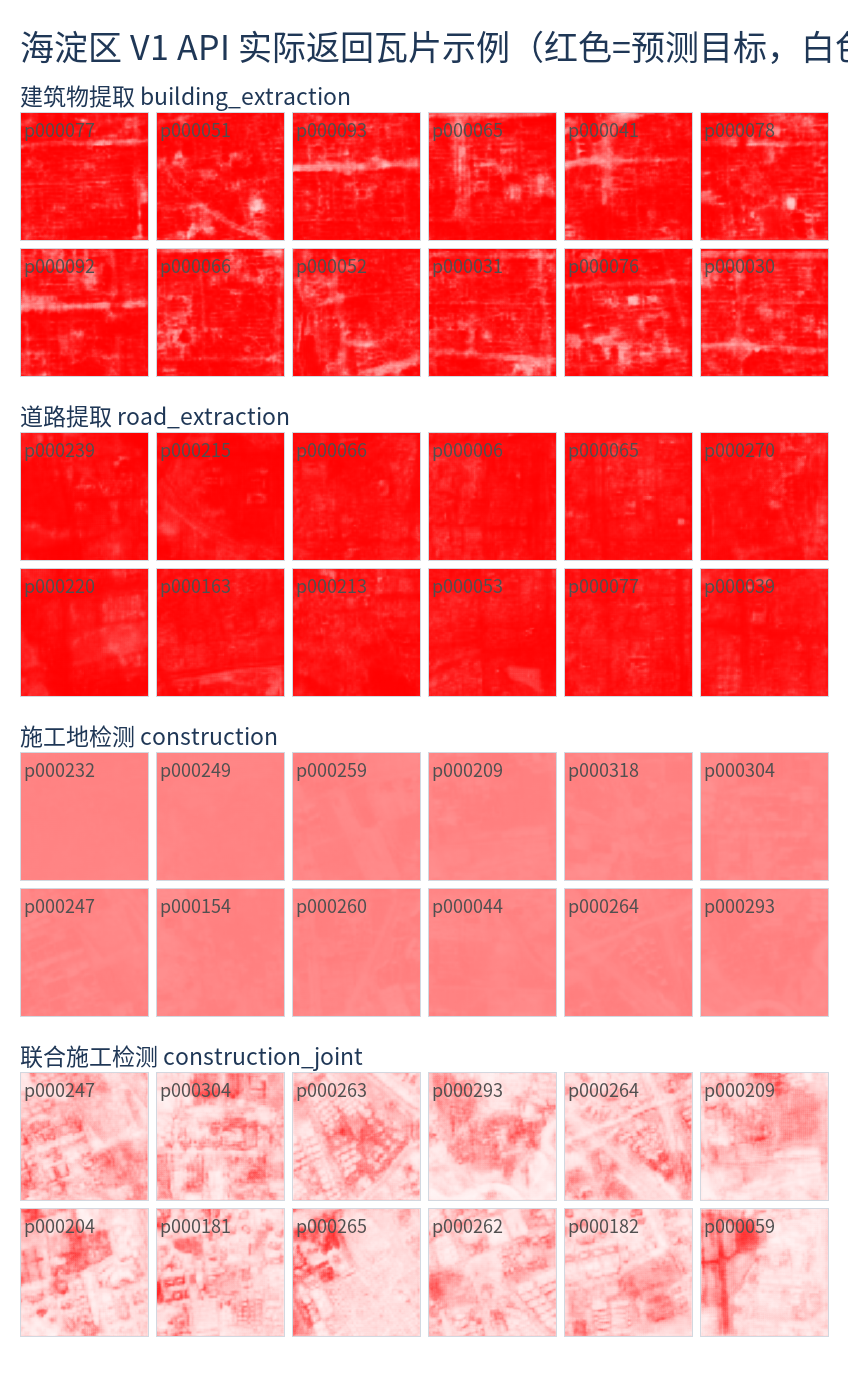
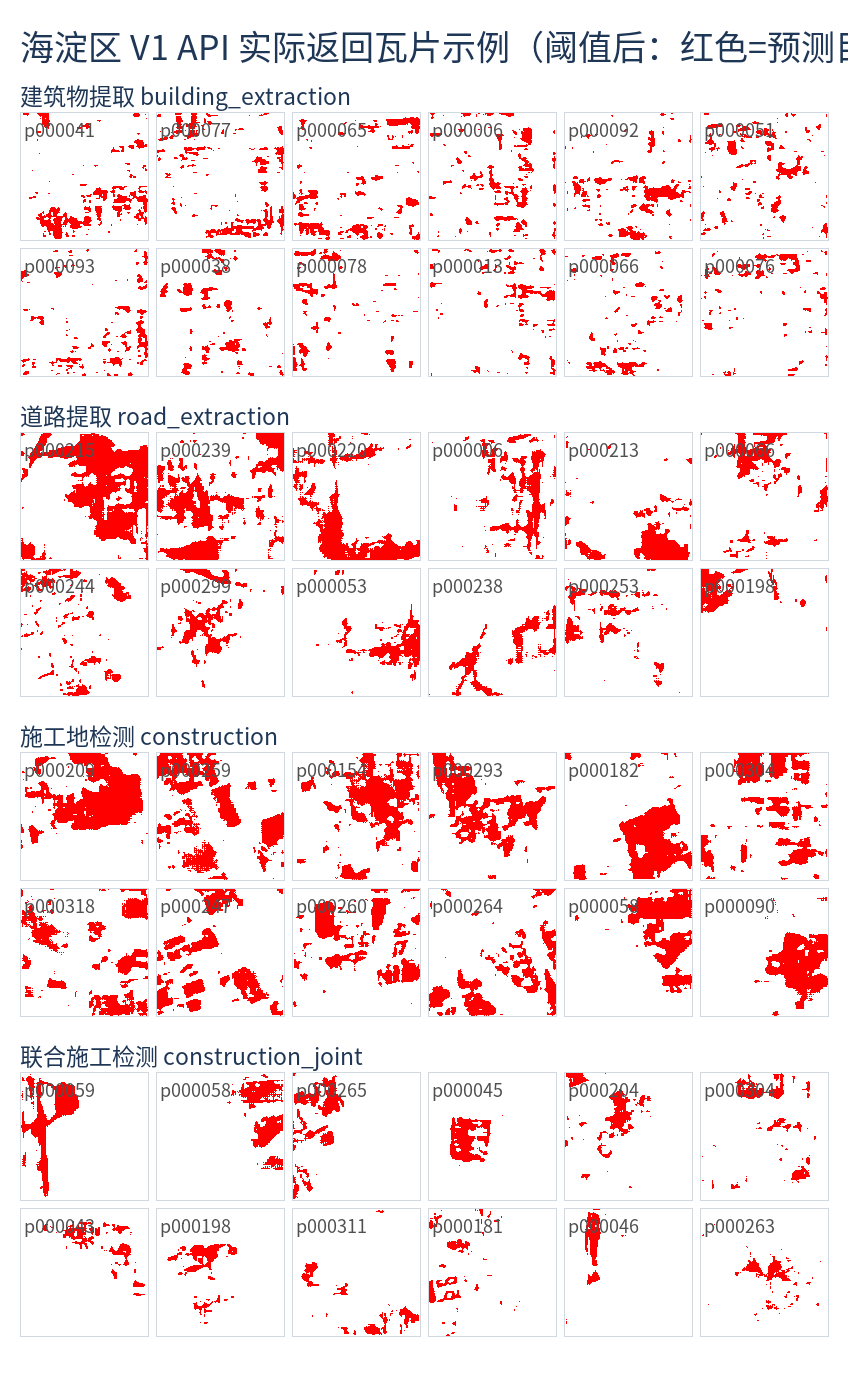
docs: document Haidian API tile threshold fix

diff --git a/reports/api_task_visuals_20260701/DEPLOYMENT_CHECK.md b/reports/api_task_visuals_20260701/DEPLOYMENT_CHECK.md
@@ -47,6 +47,30 @@
 - `haidian/v1/archive/training_output/epoch_90.pt`
 - `haidian/v1/archive/training_output/epoch_100.pt`
 
+## 任务瓦片展示修复
+
+曾发现 API 展示瓦片与诊断图不一致：早期瓦片将连续概率直接映射为红色深浅，红色通道恒为 255，导致道路等概率整体偏高的任务看起来接近整片红。
+
+已修复为按任务阈值二值化展示：
+
+- 红色：预测目标。
+- 白色：背景。
+- `.npy` 概率图保持不变，仍可用于程序分析。
+
+远端抽检结果：
+
+- `road_extraction/patch_000215.png`：红色约 39%，白色约 61%，颜色数为 2。
+- `building_extraction/patch_000041.png`：红色约 12%，白色约 88%，颜色数为 2。
+
+`construction_joint` 的指标阈值高于当前导出概率范围，会导致展示全空；该任务展示阈值已回退为 0.5，并在 `summary.json` 中记录：
+
+```json
+{
+  "visualization_threshold": 0.5,
+  "visualization_threshold_source": "fallback_0.5_metrics_threshold_was_empty"
+}
+```
+
 ## 部署链路修复
 
 发现并修复了一个部署风险：原下载脚本会默认下载整个 ModelScope 数据集，可能连同 `archive` 一起下载，体积约 95G。